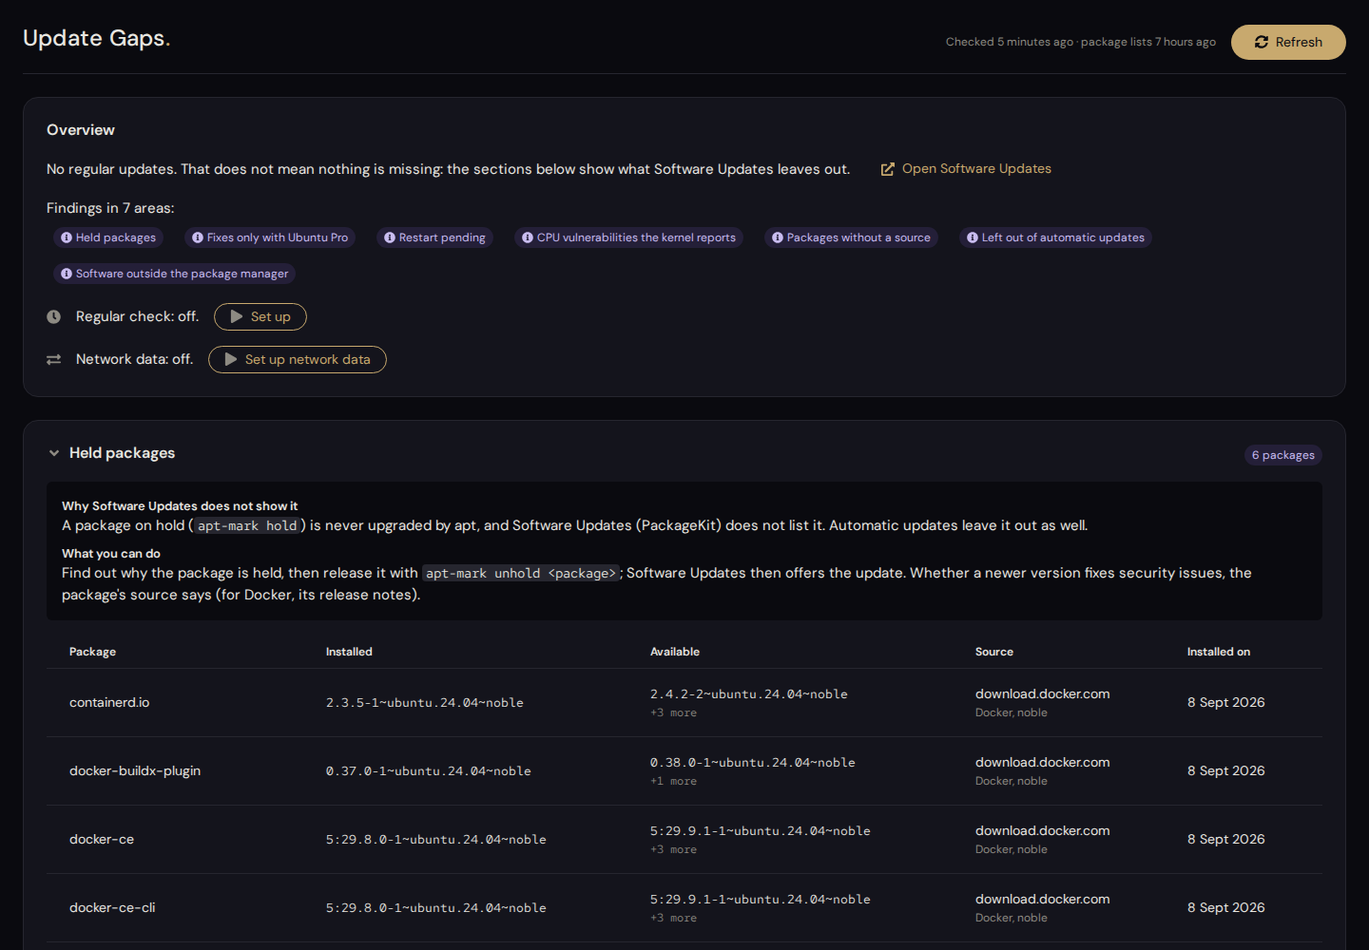
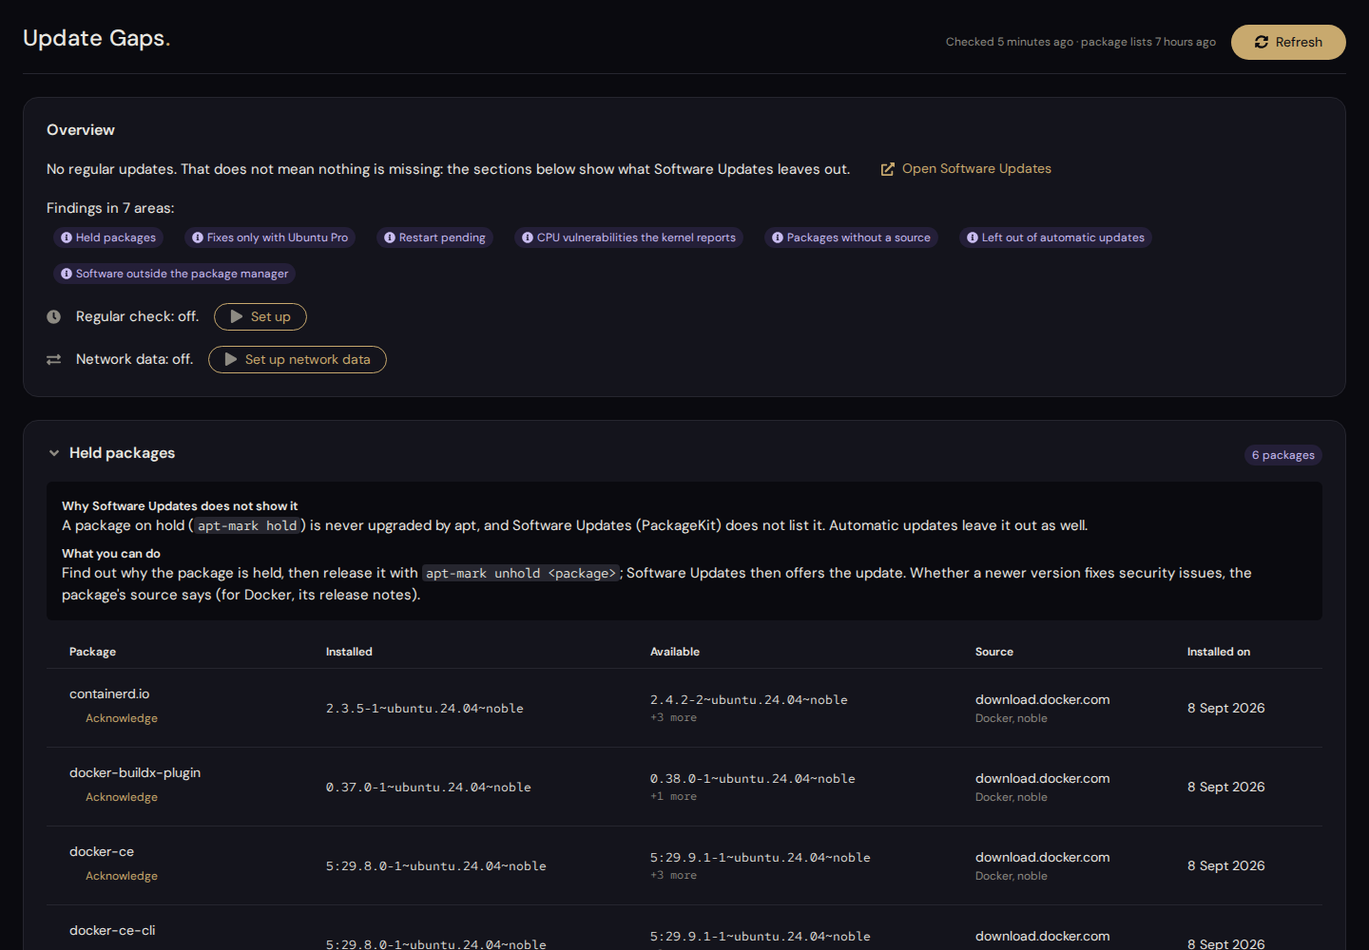
Bring the README and repository files up to date (#19)
Brings the README and the repository files up to the state of 0.7.0 and
in line with the other Azentrius add-ons (Image Update Monitor, Security
Monitor, Cron Jobs, Status Board). No change to the checks or the page's
behaviour; no version change.

## Fixes (wrong or outdated)

- `support@azentrius.com` instead of `.de` in SECURITY.md and the
package's maintainer.
- The package description was at the state of 0.5.0: now with dpkg,
/boot, signing keys, the runs of unattended-upgrades, "since when",
acknowledging findings and the network data.
- "0.1 releases carry only the .deb" in test.yml, release.yml and the
Makefile: releases carry no .rpm yet.
- README: which findings cannot be acknowledged (also a pending restart,
software outside the package manager, the end of support); uninstall
also removes the acknowledgements; Fedora/RHEL wording (no .rpm in
releases, the package repo serves Debian and Ubuntu only); the fixtures
come from three Ubuntu servers.
- CONTRIBUTING: what the helpers write since 0.7.0 (`accepted.json`) and
what the page can change; what `fakesys.py` fakes now.
- SECURITY: the attack surfaces since 0.2 (network data, acknowledging,
`pro` and `gpg` as `nobody`, release files against the tagged source).
- INTERNALS: the fields that name firmware and snap findings; exit codes
in order; links to the status contract.

## Alignment with the other add-ons

- README: screenshots in light and dark plus upkeep and acknowledged
[…]

diff --git a/tools/preview/shoot.py b/tools/preview/shoot.py
@@ -55,6 +55,15 @@ def main():
         a, b = (pg.locator(f"#ug-card-{k}").bounding_box() for k in ("dpkg", "boot"))
         pg.screenshot(path=os.path.join(OUT, "upkeep.png"), full_page=True,
                       clip={"x": a["x"], "y": a["y"], "width": a["width"], "height": b["y"] + b["height"] - a["y"]})
+        # Acknowledged findings: the overview with the acknowledged areas, down to the held card.
+        pg = page(1440, 1000, "scenario=noble-held-accepted&lang=en")
+        a, b = (pg.locator(s).bounding_box() for s in ("#ug-summary", "#ug-card-held"))
+        pg.screenshot(path=os.path.join(OUT, "accepted.png"), full_page=True,
+                      clip={"x": a["x"], "y": a["y"], "width": a["width"], "height": b["y"] + b["height"] - a["y"]})
+        pg = page(1440, 900, "scenario=noble-held&lang=en")
+        pg.locator("#ug-card-pro [data-accept]").first.click()
+        pg.wait_for_timeout(300)
+        pg.screenshot(path=os.path.join(OUT, "acknowledge-dialog.png"))
         pg = page(1440, 900, "scenario=noble-held&lang=en")
         pg.click("#ug-timer-setup")
         pg.wait_for_timeout(300)

diff --git a/README.md b/README.md
@@ -11,7 +11,16 @@ releases) come from a separate unprivileged service, only once set up. The only 
 can make are to switch the add-on's own regular check and its network data on or off, and to
 acknowledge a finding for a while, each after showing what that does.
 
-![Update Gaps on a server with held packages, fixes only with Ubuntu Pro and a pending restart](docs/img/overview.png)
+| Light | Dark |
+|---|---|
+| ![Update Gaps on a server with held packages, fixes only with Ubuntu Pro and a pending restart](docs/img/overview.png) | ![The same page in the dark theme](docs/img/overview-dark.png) |
+
+| Upkeep gone wrong | Acknowledged findings |
+|---|---|
+| ![A kernel update that ran out of room in /boot, with the commands that finish it](docs/img/upkeep.png) | ![Findings acknowledged until the maintenance window: still shown, not counted](docs/img/accepted.png) |
+
+The screenshots show recorded test data; they come from the CI artifact `screenshots`
+(`tools/preview/shoot.py`).
 
 **Contents**
 
@@ -24,6 +33,7 @@ acknowledge a finding for a while, each after showing what that does.
 - [Settings](#settings)
 - [Operation and troubleshooting](#operation-and-troubleshooting)
 - [Development](#development)
+- [Releasing](#releasing)
 - [Known limits](#known-limits)
 - [License](#license)
 
@@ -64,6 +74,10 @@ set up) or of all packages (without), Flatpaks, pip/npm/gem/cargo installs, AppI
 without fwupd, newer snap versions in the Store (snapd refreshes by itself), software in containers,
 VMs and home directories, and whether a security issue applies to the configuration of the server.
 
+Not part of this add-on: what is reachable from where
+([Security Monitor](https://github.com/Azentrius/cockpit-security-monitor)), cron jobs and timers
+([Cron Jobs](https://github.com/Azentrius/cockpit-cronjobs)).
+
 ## Reading the page
 
 - **Header:** when the server was checked and when apt last updated its package lists; “Refresh”
@@ -79,12 +93,13 @@ VMs and home directories, and whether a security issue applies to the configurat
   into a terminal: the page installs nothing. A finding an earlier check saw as well says since
   when (“seen since”); the time is kept in the state file, nowhere else.
 - **Acknowledging a finding:** with administrative access, “Acknowledge” beside a finding takes it
-  out of the status (Status Board, menu icon) until a day you pick, at most 90 days ahead, with an
-  optional reason. The page keeps showing it, marked “acknowledged until …”; the overview lists such
-  areas apart. It counts again after that day, or as soon as it changes in a way that matters (a
-  held package that gets a fix from a security source, a CPU vulnerability that becomes this
-  server's to fix). “Take back” ends it early. Findings from the network data cannot be
-  acknowledged.
+  out of the status ([Status Board](https://github.com/Azentrius/cockpit-status-board), menu icon)
+  until a day you pick, at most 90 days ahead, with an optional reason. The page keeps showing it,
+  marked “acknowledged until …”; the overview lists such areas apart. It counts again after that
+  day, or as soon as it changes in a way that matters (a held package that gets a fix from a
+  security source, a CPU vulnerability that becomes this server's to fix). “Take back” ends it
+  early. Findings from the network data, a pending restart, software outside the package manager
+  and the end of support cannot be acknowledged.
 - **No findings:** the areas checked without a finding, and what was only partly checked.
 - **Not checked:** what the page cannot see, plus every area that was skipped, failed or ran out
   of time on this server, with the reason.
@@ -140,13 +155,14 @@ flowchart LR
 | `systemd/update-gaps-scan.service`, `.timer` | `/usr/lib/systemd/system/` | the check, hardened and without network; the timer is off until set up from the page |
 | `systemd/update-gaps-radar.service`, `.timer` | `/usr/lib/systemd/system/` | the network data, once a day as a user of its own; off until set up from the page |
 
-After every check the service also writes `status.json`: a short summary in the status format
-all Azentrius add-ons share (unfixed security issues with the network data, held packages with
-newer versions, a pending restart, CPU vulnerabilities, fixes only with Ubuntu Pro, package lists,
-the end of support, regular updates, and, only when there is a finding, packages dpkg left half
-done, room in `/boot`, signing keys, the runs of the automatic updates, firmware and snaps, each
-with its state; acknowledged findings do not count). The Status
-Board finds the command in the page's `manifest.json` (`azentrius.status`) and runs
+After every check the service also writes `status.json`: a short summary in the
+[status format all Azentrius add-ons share](https://github.com/Azentrius/cockpit-status-board/blob/main/docs/STATUS-CONTRACT.md)
+(unfixed security issues with the network data, held packages with newer versions, a pending
+restart, CPU vulnerabilities, fixes only with Ubuntu Pro, package lists, the end of support,
+regular updates, and, only when there is a finding, packages dpkg left half done, room in `/boot`,
+signing keys, the runs of the automatic updates, firmware and snaps, each with its state;
+acknowledged findings do not count). The [Status Board](https://github.com/Azentrius/cockpit-status-board)
+finds the command in the page's `manifest.json` (`azentrius.status`) and runs
 `gaps-status.py status --lang en|de`, which needs no administrative access; a link of an item
 (`#/held`) opens this page at its card.
 
@@ -198,7 +214,26 @@ Interfaces, the formats of `scan.json` and `status.json` and the exit codes:
   `unattended-upgrades`, `gpg` (signing keys of the sources), `fwupd` (firmware),
   `systemd-detect-virt` (from systemd: tells a VM from a physical server)
 
-Fedora, RHEL and openSUSE are not checked yet: the package installs there, and the page says so.
+Fedora, RHEL and openSUSE are not checked yet. Releases carry no `.rpm`, and packages.azentrius.com
+serves the add-on for Debian and Ubuntu only. An `.rpm` built with `make packages` installs on
+Fedora 43 and Rocky Linux 9 and 10 (CI job `install`), and the page says that it checks nothing
+there.
+
+### Supported systems
+
+What CI really runs, and what is expected but not tested. A package that installs is not a tested
+system by itself.
+
+| | Systems | What is checked |
+|---|---|---|
+| **Tested** | Ubuntu 24.04 (GitHub runner) with Ubuntu's own Cockpit and systemd | the page in a real Cockpit session in Chromium (job `cockpit`): installed with apt, found in the menu, the first check by itself through the hardened service (no network), a held package and the reboot flag on the page, “Refresh”, the regular check set up from the page and switched off, the network data set up from the page with a real fetch as the unprivileged radar, a finding acknowledged and taken back, the status as a user without sudo, a user without administrative access, the links of the status, no JavaScript or resource errors; versions, steps and screenshots in the job summary and the artifact `cockpit-session` |
+| **Tested** | Debian 12 and 13, Ubuntu 22.04, 24.04 and 26.04, in throw-away containers | the helpers as root and as a user (job `scenarios`): a held package, a package without a source, a source without lists, a package dpkg left half configured, files outside apt, a hidden folder, the reboot flag, a Package-Blacklist, never apt-get from `/usr/local` |
+| **Tested** | Python 3.8 and 3.12 | the helper tests (job `python-min` and `make check`); 3.8 is the oldest supported |
+| **Recorded** | three real Ubuntu servers (24.04 and 26.04) | the checks against their outputs, recorded read only and made anonymous (`test/fixtures/`), and variants for what they do not have (Debian, no root, missing tools, time limits, phased updates, upkeep gone wrong) |
+| **Package installs** | Debian 12 and 13, Ubuntu 22.04, 24.04 and 26.04 (`.deb`); Fedora 43, Rocky Linux 9 and 10 (`.rpm` from `make packages`) | the package installs with the distribution's own dependencies, the helpers answer, the package removes cleanly (job `install`, Debian 13 also in job `test`). No Cockpit or systemd runs there. |
+| **Expected, untested** | Debian 12 and 13, Ubuntu 22.04 and newer, with Cockpit 264 or newer | the page in a real Cockpit there |
+| **Refused** | Ubuntu 20.04 (Cockpit 215), Rocky Linux 8 (`python3` is 3.6) | checked in CI: the package manager refuses the package for the dependency that is too old |
+| **Not checked yet** | Fedora, RHEL, openSUSE | the package installs, but the page checks nothing there; releases and the package repository have no `.rpm` |
 
 ## Install, update, uninstall
 
@@ -209,6 +244,9 @@ From the Azentrius package repository (set up once, see
 sudo apt update && sudo apt install cockpit-update-gaps
 ```
 
+Or install **Update Gaps** in Cockpit under **Applications**. The system's updates keep it
+current. Which systems are tested how: [Supported systems](#supported-systems).
+
 Or from the files of a release: download the `.deb` and `SHA256SUMS`, check them, install:
 
 ```bash
@@ -217,14 +255,17 @@ gh attestation verify cockpit-update-gaps_X.Y.Z-1_all.deb --repo Azentrius/cockp
 sudo apt install ./cockpit-update-gaps_X.Y.Z-1_all.deb
 ```
 
+Or build the package yourself: `make packages` (needs dpkg-deb and rpmbuild), then
+`sudo apt install ./dist/cockpit-update-gaps_X.Y.Z-1_all.deb`.
+
 The package must be installed on each server you look at in Cockpit, also behind a Cockpit
 bastion (the page is served by that server's bridge). After the first install, open the page with
 administrative access: it checks the server once by itself. Set up the regular check there if you
 want the state kept current, and the network data if you want them (see the security model for
 what leaves the server).
 
-Uninstall: `sudo apt remove cockpit-update-gaps`. It stops both timers and removes the state and
-the network data; `/etc/update-gaps.conf` stays.
+Uninstall: `sudo apt remove cockpit-update-gaps`. It stops both timers and removes the state, the
+acknowledgements given on the page and the network data; `/etc/update-gaps.conf` stays.
 
 ## Settings
 
@@ -261,14 +302,34 @@ systemctl list-timers update-gaps-scan.timer            # the regular check
 pip install -r test/requirements.txt   # shellcheck, ruff, playwright
 make check                             # every offline test
 make lint                              # shellcheck, ruff, systemd units and their hardening
-python3 tools/preview/build.py         # the page with recorded data:
+make packages                          # .deb and .rpm in dist/ (needs dpkg-deb and rpmbuild)
+python3 tools/preview/build.py         # the page with recorded data (also make preview):
                                        # tools/preview/out/update-gaps/index.html?scenario=noble-held&lang=en
+python3 tools/preview/shoot.py         # screenshots (light, dark, phone) to docs/img; needs Playwright
 ```
 
-The helper tests run against output recorded on real Debian and Ubuntu servers
-(`test/fixtures/`, made anonymous by `test/fixtures/import_capture.py`); `test/scenarios.sh` sets
-up the same situations in throw-away containers, and the CI job `cockpit` uses the page in a real
-Cockpit session. More in [CONTRIBUTING.md](CONTRIBUTING.md).
+The helper tests run against output recorded on three real Ubuntu servers (24.04 and 26.04) and
+made anonymous (`test/fixtures/`, `test/fixtures/import_capture.py`), with variants for the cases
+those servers do not have: Debian, no root, missing tools, time limits, phased updates, upkeep gone
+wrong. Besides the job `test`, CI runs the helper tests on Python 3.8
+(job `python-min`), sets up the same situations on Debian and Ubuntu in throw-away containers
+(`scenarios`, `test/scenarios.sh`), installs and removes the packages on more distributions
+(`install`) and uses the page in a real Cockpit session (`cockpit`); all of it:
+[Supported systems](#supported-systems). More in [CONTRIBUTING.md](CONTRIBUTING.md).
+
+## Releasing
+
+1. Set the new version in `plugin/gaps.js` (`const VERSION`) and in every `?v=` in
+   `plugin/index.html`, and add a section `## X.Y.Z – YYYY-MM-DD` to `CHANGELOG.md`
+   (`tools/check-version.sh` checks that the three agree).
+2. Merge to `main`.
+3. On GitHub: Actions › **release** › Run workflow (branch `main`). The workflow checks the version,
+   waits for the test workflow of that commit to pass, runs the tests, builds the `.deb` and the
+   source archive `cockpit-update-gaps-X.Y.Z.tar.gz` with `SHA256SUMS` and a signed build
+   provenance, and creates the tag `vX.Y.Z` with a release whose notes come from `CHANGELOG.md`.
+   Releases carry no `.rpm` yet.
+4. packages.azentrius.com takes the package from the release within an hour
+   ([Azentrius/packages](https://github.com/Azentrius/packages)).
 
 ## Known limits
 
@@ -293,4 +354,9 @@ Cockpit session. More in [CONTRIBUTING.md](CONTRIBUTING.md).
 ## License
 
 Apache-2.0, see [LICENSE](LICENSE). Third-party material (fonts, icons) is listed in
-[NOTICE](NOTICE).
+[NOTICE](NOTICE). The page contains no code from Cockpit; it uses Cockpit's API `cockpit.js` at
+runtime, which Cockpit itself ships.
+
+Please report security issues privately, see [SECURITY.md](SECURITY.md).
+
+Made by [Azentrius](https://azentrius.com).

diff --git a/CONTRIBUTING.md b/CONTRIBUTING.md
@@ -24,22 +24,39 @@ pip install -r test/requirements.txt   # pinned check tools: shellcheck, ruff, p
 make check                       # every offline test: helpers with fake commands, page under jsdom, version and changelog
 make lint                        # shellcheck, ruff, systemd-analyze for the units, as in CI
 make packages                    # .deb and .rpm in dist/ (needs dpkg-deb and rpmbuild)
-python3 tools/preview/build.py   # the page with test data: tools/preview/out/update-gaps/index.html?lang=en (or de)
+python3 tools/preview/build.py   # the page with test data: tools/preview/out/update-gaps/index.html?scenario=noble-held&lang=en (or de)
 ```
 
-The offline tests need no root and no network: the helpers run against fake `apt`, `dpkg`,
-`needrestart`, `pro`, `fwupdmgr` and snapd answers and recorded files of `/sys` and `/proc` from real
-systems (`test/fixtures/`), and the radar against a stub instead of the network services. The
-`test` workflow runs the lint, the tests and the package build on every push and pull request; it has
-to be green before a merge.
+The offline tests need no root and no network: the helpers run against fake `apt`, `apt-config`,
+`dpkg`, `needrestart`, `pro`, `gpg`, `systemctl`, `journalctl`, `fwupdmgr` and snapd answers
+(`test/fakesys.py`) and recorded files of `/sys`, `/proc` and `/boot` (with its free room,
+`statvfs`) and the log of unattended-upgrades from real systems (`test/fixtures/`), and the radar
+against a stub instead of the network services. The `test` workflow runs the lint, the tests and the
+package build on every push and pull request; its job `test` has to be green before a merge. Its
+other jobs: `python-min` runs the helper tests on Python 3.8, `scenarios` runs the helpers on Debian
+12 and 13 and Ubuntu 22.04, 24.04 and 26.04 in throw-away containers, and `install` installs and
+removes the packages on more distributions and checks that Ubuntu 20.04 and Rocky Linux 8 refuse
+them.
+
+## The page in a real Cockpit
+
+The job `cockpit` installs Cockpit on a throw-away GitHub runner and drives the page through
+Cockpit's login with Playwright (`test/cockpit-setup.sh`, `test/cockpit-session.py`): this build
+installed with apt, the page in the menu, the first check by itself through the service, “Refresh”,
+the regular check and the network data set up from the page, a finding acknowledged and taken back,
+a user without administrative access, the links of the status, errors in the browser. It creates
+users, holds a package and sets the reboot flag, so it runs only there, never on a machine you use.
+Its summary lists the versions and every step; the artifact `cockpit-session` has screenshots. A
+change to what the page does in Cockpit gets a step there.
 
 ## How the add-on is built
 
 - **Read only.** The helpers never run `apt update`, install, remove or restart anything. They write
-  only the add-on's own state (`/var/lib/update-gaps/scan.json`) and lock. The only changes from the
-  page are setting up the add-on's own timers (the regular check, the network data), and they run as
-  show → confirm → live output → result. The add-on never installs anything, not even a tool it
-  could use (fwupd, needrestart): the page says what it could not check.
+  only the add-on's own files in `/var/lib/update-gaps` (`scan.json`, `status.json`, and
+  `accepted.json` through `gaps-accept.py`) and their locks. The only changes from the page are
+  setting up the add-on's own timers (the regular check, the network data) and acknowledging
+  findings, each as show → confirm → live output → result. The add-on never installs anything, not
+  even a tool it could use (fwupd, needrestart): the page says what it could not check.
 - **Root code only in `lib/`**, installed to `/usr/lib/cockpit-update-gaps` (root-owned). Nothing is
   ever run or imported from a directory others can write.
 - **Root never on the network, network never as root.** The scan service runs with

diff --git a/docs/INTERNALS.md b/docs/INTERNALS.md
@@ -55,8 +55,8 @@ install without a state checks once by itself when an administrator opens the pa
 | 0 | ok (`gaps-scan.py`: also with findings and with single checks in `error` or `timeout`) |
 | 1 | unexpected error (`gaps-scan.py`: the previous state file stays as it was); `gaps-ctl.sh scan`: the service failed |
 | 2 | not possible: the service or timer is missing |
-| 65 | `gaps-accept.py`: no such finding in the last state, or a day out of range |
 | 64 | wrong call |
+| 65 | `gaps-accept.py`: no such finding in the last state, or a day out of range |
 | 75 | a scan is running already |
 | 77 | no root rights (`gaps-ctl.sh scan`, `radar`, `install`/`remove timer`/`radar`, `accept`/`unaccept`, `gaps-accept.py`); `gaps-status.py`: `status.json` exists but cannot be read; `gaps-radar.py`: started as root (it never runs as root) |
 
@@ -111,11 +111,12 @@ previous `FILE` first (at most 64 MiB, as data: only a `since` in the format of 
 taken) and carries the time over when the same finding is there again; a new one gets the scan's
 `generated`, one that is gone is gone. Which fields name a finding (the others, such as versions,
 counts and ages, may change): `phased` (`packages[]`) `package`; `dpkg` `kind`, `package`; `boot`,
-`uu` `kind`; `held`, `pro`, `local` `package`; `cpu` `name`; `firmware` `kind`, `remote`; `snaps`
-`kind`, `snap`; `lists` `kind`, `site`, `release`, `file`; `keys` `kind`, `file`, `inline`; `auto`
-`kind`, `what`, `site`, `o`, `a`, `pattern`; `backports` `source`. Findings from the network data
-(`cve`, `upstream`, `newer`) change with every download and have none. The page shows “seen since
-<date>” once an earlier scan saw a finding. A scan to stdout (no `--output`) starts afresh.
+`uu` `kind`; `held`, `pro`, `local` `package`; `cpu` `name`; `firmware` `kind`, `remote`, `device`;
+`snaps` `kind`, `snap`, `id`; `lists` `kind`, `site`, `release`, `file`; `keys` `kind`, `file`,
+`inline`; `auto` `kind`, `what`, `site`, `o`, `a`, `pattern`; `backports` `source`. Findings from
+the network data (`cve`, `upstream`, `newer`) change with every download and have none. The page
+shows “seen since <date>” once an earlier scan saw a finding. A scan to stdout (no `--output`)
+starts afresh.
 
 ### The checks
 
@@ -365,9 +366,10 @@ A newer version in the Store is no finding: snapd refreshes by itself several ti
 
 ## `status.json` and `gaps-status.py status` (status contract)
 
-The status format all Azentrius add-ons share (schema 1), for the Status Board and other tools. The
-service writes `/var/lib/update-gaps/status.json` after `scan.json` (`gaps-scan.py --status FILE`);
-the verb only reads it:
+The [status format all Azentrius add-ons share](https://github.com/Azentrius/cockpit-status-board/blob/main/docs/STATUS-CONTRACT.md)
+(schema 1), for the [Status Board](https://github.com/Azentrius/cockpit-status-board) and other
+tools. The service writes `/var/lib/update-gaps/status.json` after `scan.json`
+(`gaps-scan.py --status FILE`); the verb only reads it:
 
 | Call | Kind | Output |
 |---|---|---|

diff --git a/SECURITY.md b/SECURITY.md
@@ -7,7 +7,7 @@ Please do **not** open a public issue for security problems.
 Report them privately through GitHub instead:
 [Report a vulnerability](https://github.com/Azentrius/cockpit-update-gaps/security/advisories/new)
 (tab **Security → Report a vulnerability** in this repository).
-If you cannot use GitHub, write to **support@azentrius.de**.
+If you cannot use GitHub, write to **support@azentrius.com**.
 
 Please include:
 
@@ -69,6 +69,16 @@ particularly welcome for:
 - credentials from package sources or other secrets that end up in the add-on's state file, which
   every local user can read,
 - the scan service reaching the network although it runs with `PrivateNetwork=yes`,
+- data from security-metadata.canonical.com, api.launchpad.net or api.github.com that the root scan
+  takes as more than checked data, or that reaches the page as markup or script, and the radar
+  running as root,
+- `gaps-ctl.sh accept`/`unaccept` or `gaps-accept.py` writing anything but
+  `/var/lib/update-gaps/accepted.json`, accepting a ref or a day it should refuse, taking the reason
+  from anywhere but stdin, or an acknowledgement that still hides a finding after it changed in a
+  way that matters,
+- `pro` or `gpg` running with root's rights, or writing outside the fresh home the scan gives them
+  (it runs them as `nobody`),
 - `/etc/update-gaps.conf` being accepted when others than root can write it,
 - the package `cockpit-update-gaps` (its install and removal scripts) or `make install` overwriting or
-  exposing files it should not touch.
+  exposing files it should not touch,
+- release archives, packages or `SHA256SUMS` that do not match the tagged source.

diff --git a/.github/pull_request_template.md b/.github/pull_request_template.md
@@ -18,7 +18,7 @@ Security problems: do not open a pull request, see SECURITY.md.
 ## Checklist
 
 - [ ] Every new or changed text exists in English and German (`I18N.en` and `I18N.de`, `msg de en`)
-- [ ] Changed formats (`scan.json`, the helpers' JSON) are changed together with the page, `test/fixtures/`, the tests and `docs/INTERNALS.md`
-- [ ] The helpers still only read: no `apt update`, no install, no restart, no network in the scan
+- [ ] Changed formats (`scan.json`, `status.json`, `accepted.json`, `radar.json`, the helpers' JSON) are changed together with the page, `test/fixtures/`, the tests and `docs/INTERNALS.md`
+- [ ] The helpers still only read: they write only `scan.json`, `status.json` and `accepted.json`, the radar only its own folder and only as its own user; no `apt update`, no install, no restart, no network in the scan
 - [ ] No secrets, tokens or real server data (host names, IP addresses, credentials) in code, tests, fixtures or this description
 - [ ] SPDX header on every new source file
